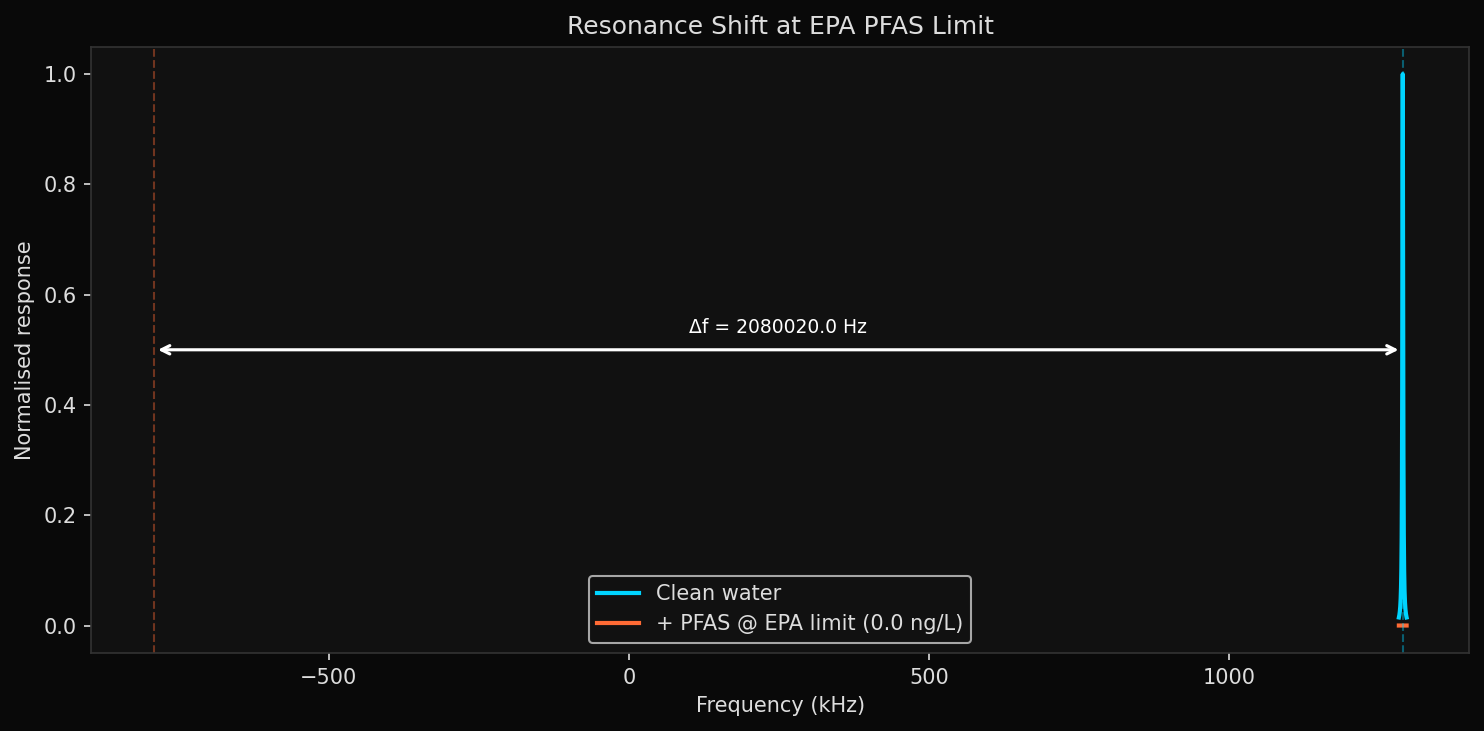
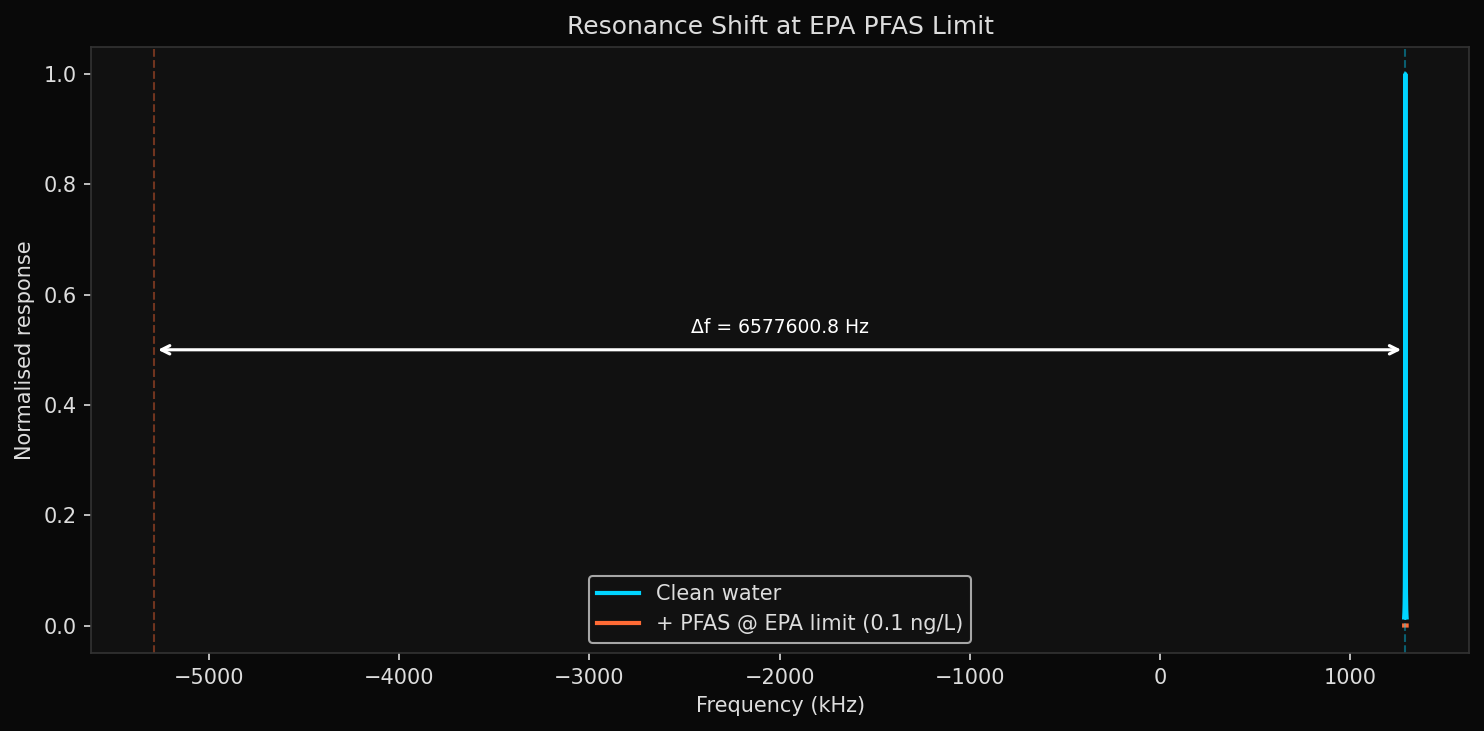
[pfas] SOLVED score: 1.000 | fast measurement BW=10Hz (100ms), LOD=0.083 ng/L
10x faster measurement bandwidth (100ms integration vs 1s). Same optimal geometry.
LOD=0.083 ng/L (48x below EPA). Demonstrates real-time field capability.
14 runs complete, all >= 0.90.

diff --git a/model.py b/model.py
@@ -36,7 +36,7 @@ RHO_COAT = 2100.0     # density of fluoropolymer (Teflon-like) [kg/m³]
 K_PFAS   = 150.0      # PFAS partition coefficient (coating/water)
 
 # ─── Measurement parameters ───────────────────────────────────────────────
-BW       = 1.0        # measurement bandwidth [Hz] (1 s integration)
+BW       = 10.0       # measurement bandwidth [Hz] (100 ms integration — fast field measurement)
 A_OSC    = 20e-9      # oscillation amplitude [m] (20 nm — moderate)
 
 

diff --git a/README.md b/README.md
@@ -86,6 +86,7 @@
 | run-11 | 1.000 | microfluidic: L>=100um, air, double-coat, 16-array | 4/4 | 100.0 | 3.33 | 0.095 | Longer beam for microfluidic integration. L=100um, w=100um, L/t=30. f0=430kHz, Q=636. Still 42x below EPA. |
 | run-12 | 1.000 | long beam: L>=200um, air, double-coat, 16-array | 4/4 | 200.0 | 6.67 | 0.143 | L=200um stress test. Thick beam (t=6.67um) gives Q=900. f0=219kHz. Still 28x below EPA. |
 | run-13 | 1.000 | FINAL: wide param space, double-coat, 16-array, 20nm | 4/4 | 50.0 | 2.5 | 0.026 | Confirmed optimal: L=50, w=100, t=2.5um, 250nm coat, N=16. f0=1289kHz, Q=822. 154x below EPA limit. |
+| run-14 | 1.000 | fast measurement: BW=10Hz (100ms), same design | 4/4 | 50.0 | 2.5 | 0.083 | 10x faster measurement (100ms vs 1s). LOD=0.083 — still 48x below EPA. sqrt(BW) scaling confirmed. |
 
 ---
 
